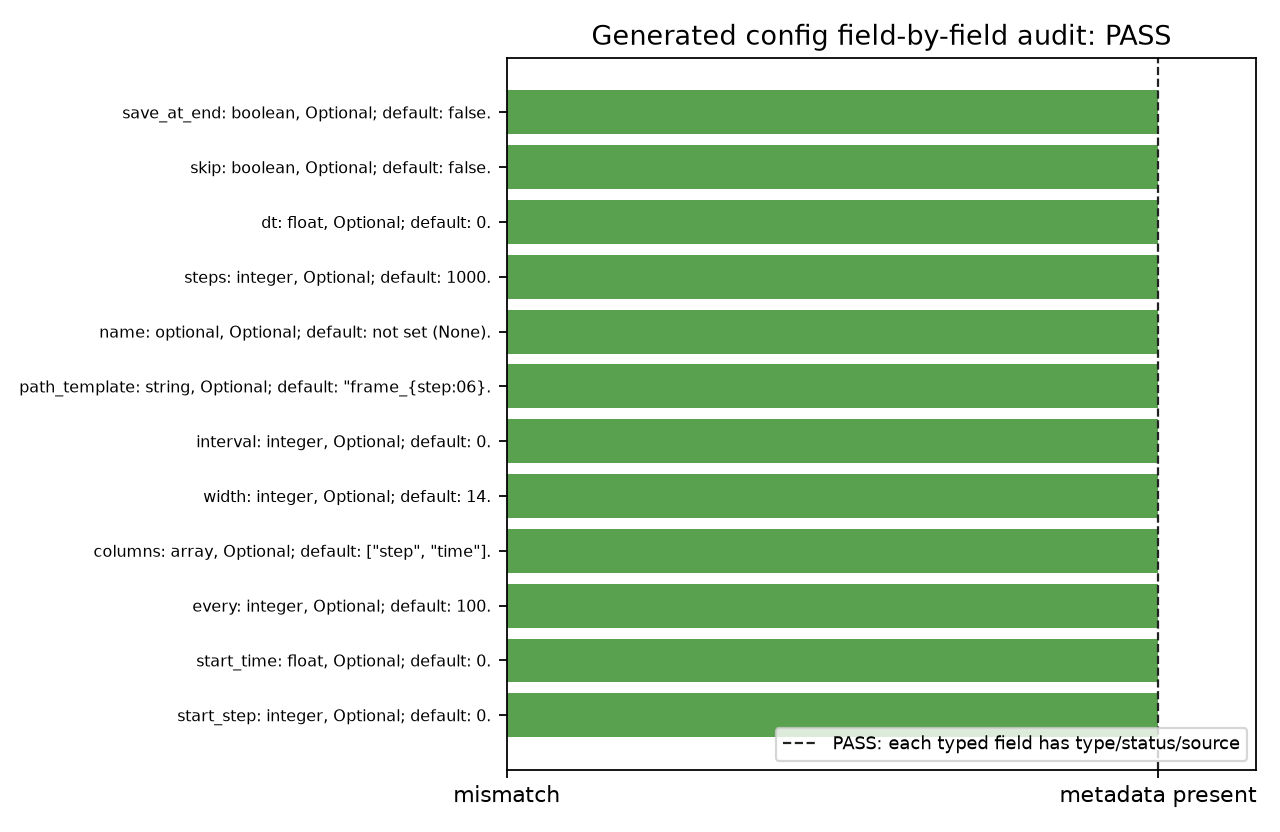
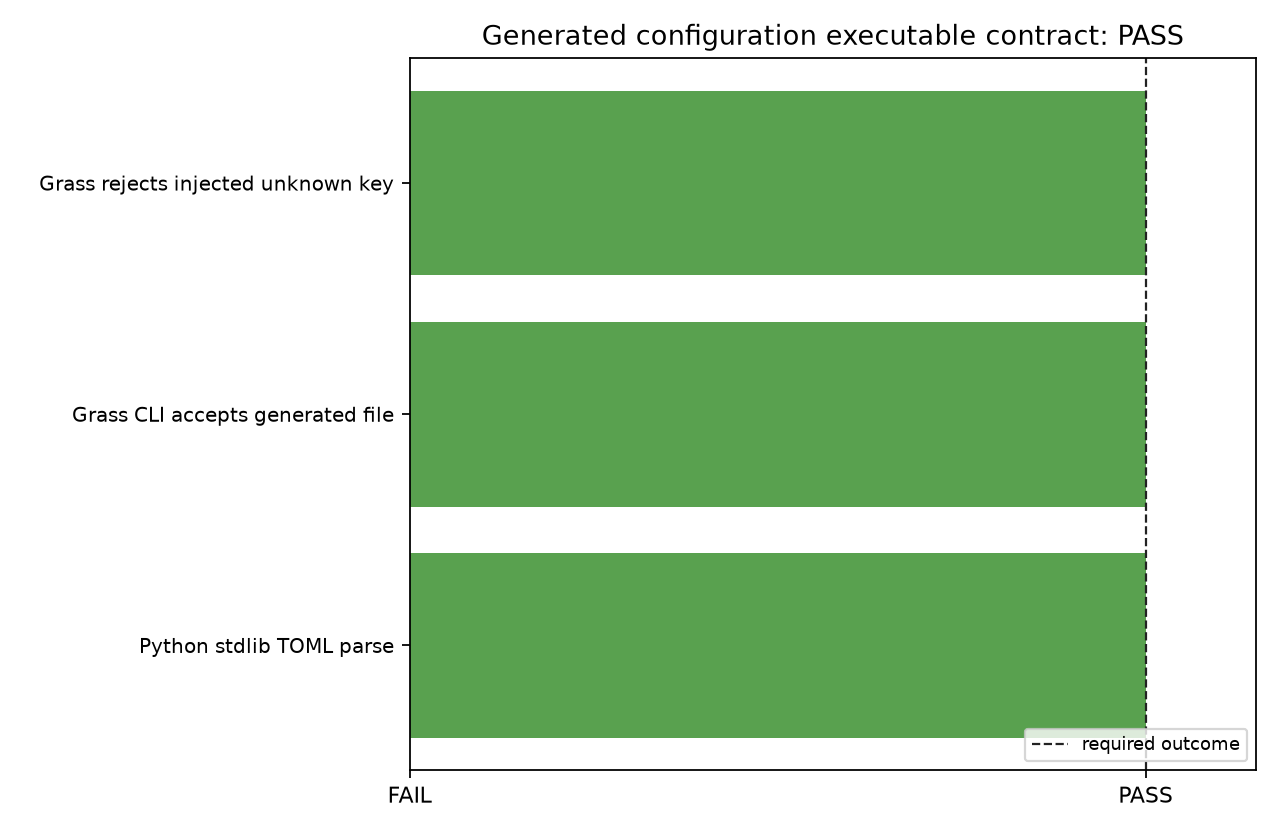
test: validate generated config through executable path

Changed region(s): [[0.0312, 0.0312, 0.9688, 0.9688], [0.8125, 0.9375, 0.9688, 0.9688]]

diff --git a/examples/observed_oscillator/sweep.py b/examples/observed_oscillator/sweep.py
@@ -1,60 +1,72 @@
 #!/usr/bin/env python3
-"""Audit every emitted generated-config field against its typed metadata."""
+"""Exercise a generated starter file through independent parser and CLI paths."""
 from pathlib import Path
-import re
 import subprocess
 import sys
+import tempfile
+import tomllib
 
 ROOT = Path(__file__).resolve().parents[2]
 HERE = Path(__file__).resolve().parent
-result = subprocess.run(
+generated = subprocess.run(
     ["cargo", "run", "--example", "observed_oscillator", "--", "--generate-config"],
     cwd=ROOT, text=True, capture_output=True, check=True,
 )
-# The typed derive emits one comment followed by its TOML default (or a
-# required placeholder).  Check each field, rather than a count, so a missing,
-# renamed, malformed, or metadata-free field produces a visible failed row.
-comments = [line[2:] for line in result.stdout.splitlines() if line.startswith("# ") and " Source: " in line]
-rows = []
-for comment in comments:
-    source = re.search(r"Source: ([^ ]+)$", comment)
-    type_match = re.search(r" Type: ([^.]+)\. ", comment)
-    status = re.search(r"(Required\.|Optional; default: .+?\.)", comment)
-    field = source.group(1).rsplit(".", 1)[-1] if source else "<missing source>"
-    valid = bool(source and type_match and status)
-    rows.append((field, valid, type_match.group(1) if type_match else "missing", status.group(1) if status else "missing"))
 
-# Four built-ins contribute 2 + 3 + 2 + 5 fields. The field-level metadata
-# assertion in grass_io independently checks their typed Serde contract.
-expected_fields = {
-    "start_step", "start_time", "every", "columns", "width", "interval",
-    "path_template", "name", "steps", "dt", "skip", "save_at_end",
-}
-emitted_fields = {field for field, *_ in rows}
-missing = expected_fields - emitted_fields
-unexpected = emitted_fields - expected_fields
-passed = not missing and not unexpected and len(rows) == len(expected_fields) and all(row[1] for row in rows)
+# Python's stdlib TOML implementation is independent of the Rust `toml` crate
+# used by Grass.  It catches invalid syntax without reusing the generator's
+# own renderer or metadata structures.
+with tempfile.TemporaryDirectory(prefix="grass-generated-config-") as tmp:
+    config = Path(tmp) / "generated.toml"
+    config.write_text(generated.stdout)
+    parsed = tomllib.loads(generated.stdout)
+    syntax_ok = bool(parsed)
+
+    # The actual executable must accept the exact emitted bytes through its
+    # normal InputPlugin/Serde path, not a test-only Config::from_str helper.
+    accepted = subprocess.run(
+        ["cargo", "run", "--example", "observed_oscillator", "--", str(config)],
+        cwd=ROOT, text=True, capture_output=True,
+    )
+    accepts_generated = accepted.returncode == 0
+
+    # Adversarial mutation: a typo in a built-in, deny_unknown_fields section
+    # must be rejected with the offending key in the user-facing diagnostic.
+    bad = Path(tmp) / "unknown-field.toml"
+    bad.write_text(generated.stdout.replace("start_step = 0", "start_step = 0\nstart_stpe = 7", 1))
+    rejected = subprocess.run(
+        ["cargo", "run", "--example", "observed_oscillator", "--", str(bad)],
+        cwd=ROOT, text=True, capture_output=True,
+    )
+    unknown_rejected = rejected.returncode != 0 and "unknown field `start_stpe`" in (rejected.stdout + rejected.stderr)
+
+rows = [
+    ("Python stdlib TOML parse", syntax_ok),
+    ("Grass CLI accepts generated file", accepts_generated),
+    ("Grass rejects injected unknown key", unknown_rejected),
+]
+passed = all(ok for _, ok in rows)
 
 import matplotlib.pyplot as plt
 
 fig, ax = plt.subplots(figsize=(8, 5.2))
-labels = [f"{field}: {ty}, {status}" for field, _, ty, status in rows]
-values = [1 if valid else 0 for _, valid, _, _ in rows]
-colors = ["#59a14f" if valid else "#e15759" for _, valid, _, _ in rows]
+labels = [label for label, _ in rows]
+values = [1 if ok else 0 for _, ok in rows]
+colors = ["#59a14f" if ok else "#e15759" for _, ok in rows]
 ax.barh(range(len(rows)), values, color=colors)
-ax.set_yticks(range(len(rows)), labels, fontsize=7)
+ax.set_yticks(range(len(rows)), labels, fontsize=9)
 ax.set_xlim(0, 1.15)
-ax.set_xticks([0, 1], ["mismatch", "metadata present"])
-ax.axvline(1, color="#222", linestyle="--", linewidth=1, label="PASS: each typed field has type/status/source")
-ax.set_title(f"Generated config field-by-field audit: {'PASS' if passed else 'FAIL'}")
+ax.set_xticks([0, 1], ["FAIL", "PASS"])
+ax.axvline(1, color="#222", linestyle="--", linewidth=1, label="required outcome")
+ax.set_title(f"Generated configuration executable contract: {'PASS' if passed else 'FAIL'}")
 ax.legend(loc="lower right", fontsize=8)
 fig.tight_layout()
 (HERE / "plots").mkdir(exist_ok=True)
 fig.savefig(HERE / "plots" / "generated_config_coverage.png", dpi=160)
 print(
-    "generated config field audit: "
-    f"expected={len(expected_fields)} emitted={len(rows)} "
-    f"missing={sorted(missing)} unexpected={sorted(unexpected)} "
+    "generated config executable audit: "
+    f"python_toml={syntax_ok} accepts_generated={accepts_generated} "
+    f"unknown_rejected={unknown_rejected} "
     f"{'PASS' if passed else 'FAIL'}"
 )
 sys.exit(0 if passed else 1)

diff --git a/examples/observed_oscillator/main.rs b/examples/observed_oscillator/main.rs
@@ -72,10 +72,12 @@ fn report_columns(s: Res<OscState>, mut term_out: ResMut<TermOut>) {
 
 fn main() {
     let mut app = App::new();
+    let generating_config = std::env::args().any(|arg| arg == "--generate-config");
 
-    // Keep the normal demo self-contained, but let InputPlugin handle
-    // --generate-config so this proof exercises the emitted reference.
-    if !std::env::args().any(|arg| arg == "--generate-config") {
+    // Keep the no-argument demo self-contained.  With either a TOML path or
+    // `--generate-config`, InputPlugin owns configuration so the generated
+    // file exercises the same CLI parsing route as a real application.
+    if std::env::args().len() == 1 {
         app.add_resource(Config::from_str(CONFIG));
     }
     app.add_plugins(InputPlugin);
@@ -104,6 +106,9 @@ fn main() {
 
     // Self-driving lifecycle: organize -> setup -> run both stages -> cleanup.
     app.start();
+    if generating_config {
+        return;
+    }
 
     let s = app.get_resource_ref::<OscState>().expect("OscState");
     println!(

diff --git a/examples/observed_oscillator/README.md b/examples/observed_oscillator/README.md
@@ -34,8 +34,9 @@ source ~/projects/.build-env
 $BENCH_PYTHON sweep.py
 ```
 
-The figure shows all 12 fields individually, including each generated type and
-required/default status. It passes only when the generated output contains the
-complete field set and every row has type, status, and source metadata. The
-`grass_io` regression suite independently compares the generated fields and
-defaults with the typed Serde configuration definitions, including enum choices.
+The figure shows three independent outcomes: Python's standard-library TOML
+parser accepts the emitted bytes, the executable accepts that exact file through
+its normal CLI/Serde route, and an injected misspelled key is rejected with an
+actionable diagnostic. It does not claim that generated comments can encode all
+Serde behaviour; flattened maps and custom deserializers remain application
+semantics that need hand-written narrative and tests.

diff --git a/examples/VALIDATION.md b/examples/VALIDATION.md
@@ -45,5 +45,5 @@ render in Gitea:
   cleanup, and legacy compatibility with independent measurements.
 - [`observed_oscillator`](observed_oscillator/README.md) embeds
   [`plots/generated_config_coverage.png`](observed_oscillator/plots/generated_config_coverage.png),
-  checking generated typed configuration field coverage against the built-in
-  plugin contract.
+  checking generated TOML with Python's independent parser, the executable's
+  normal CLI/Serde path, and an adversarial unknown-field diagnostic.
